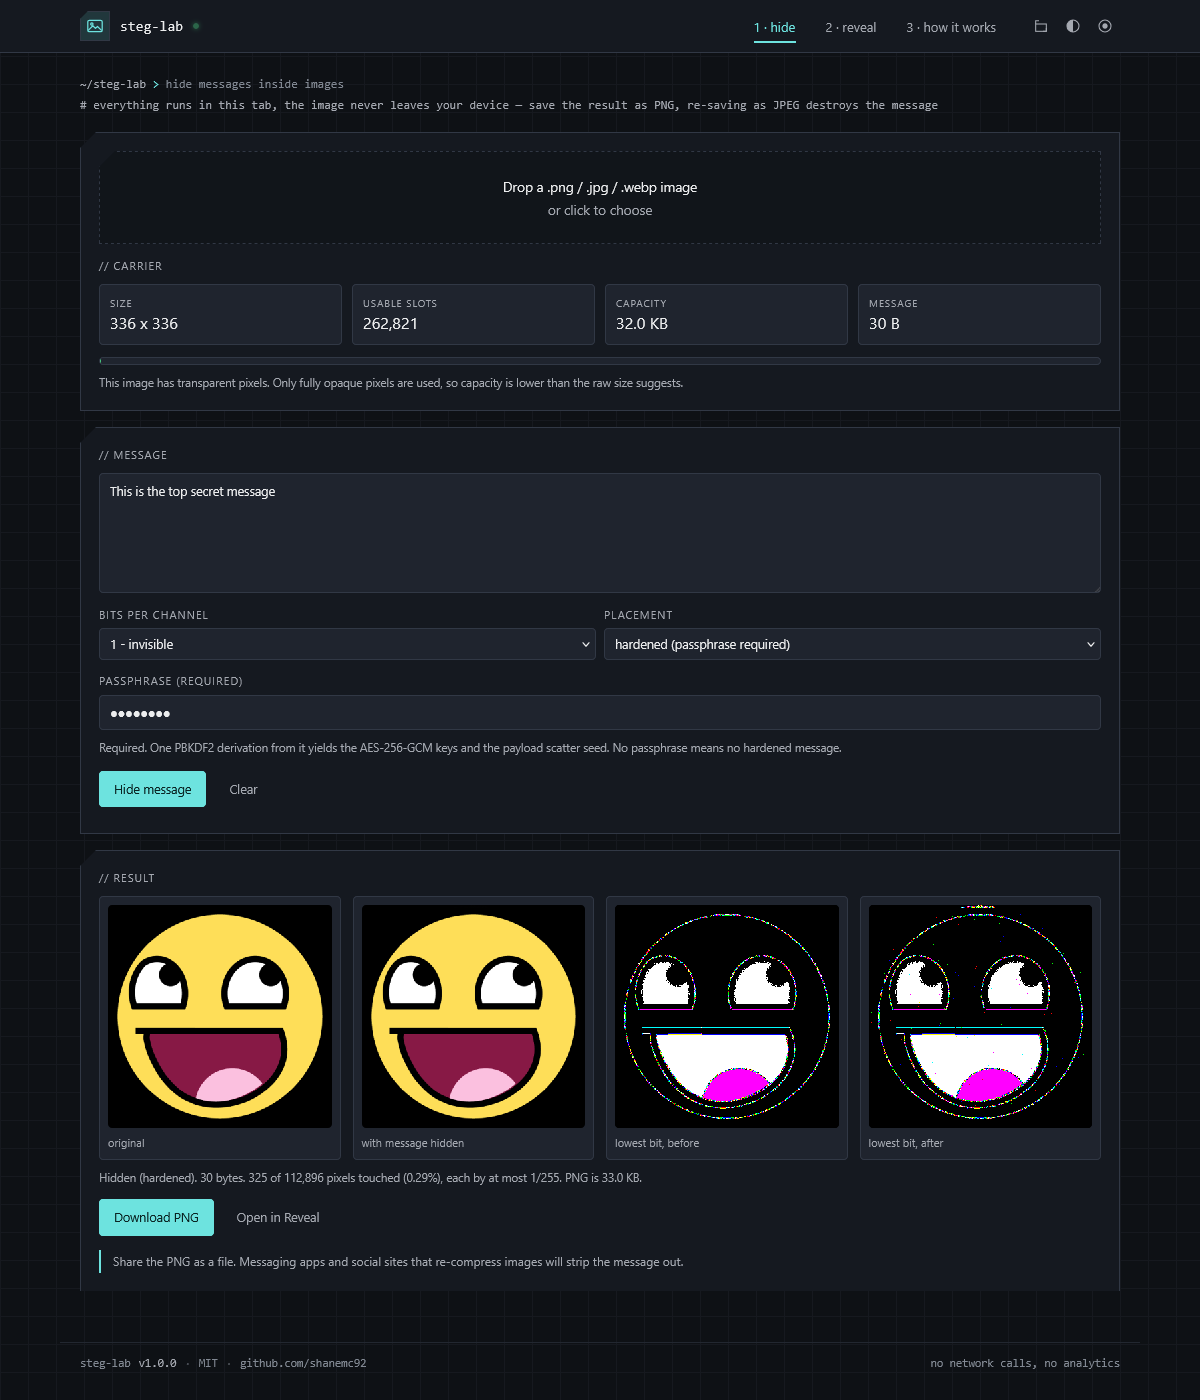
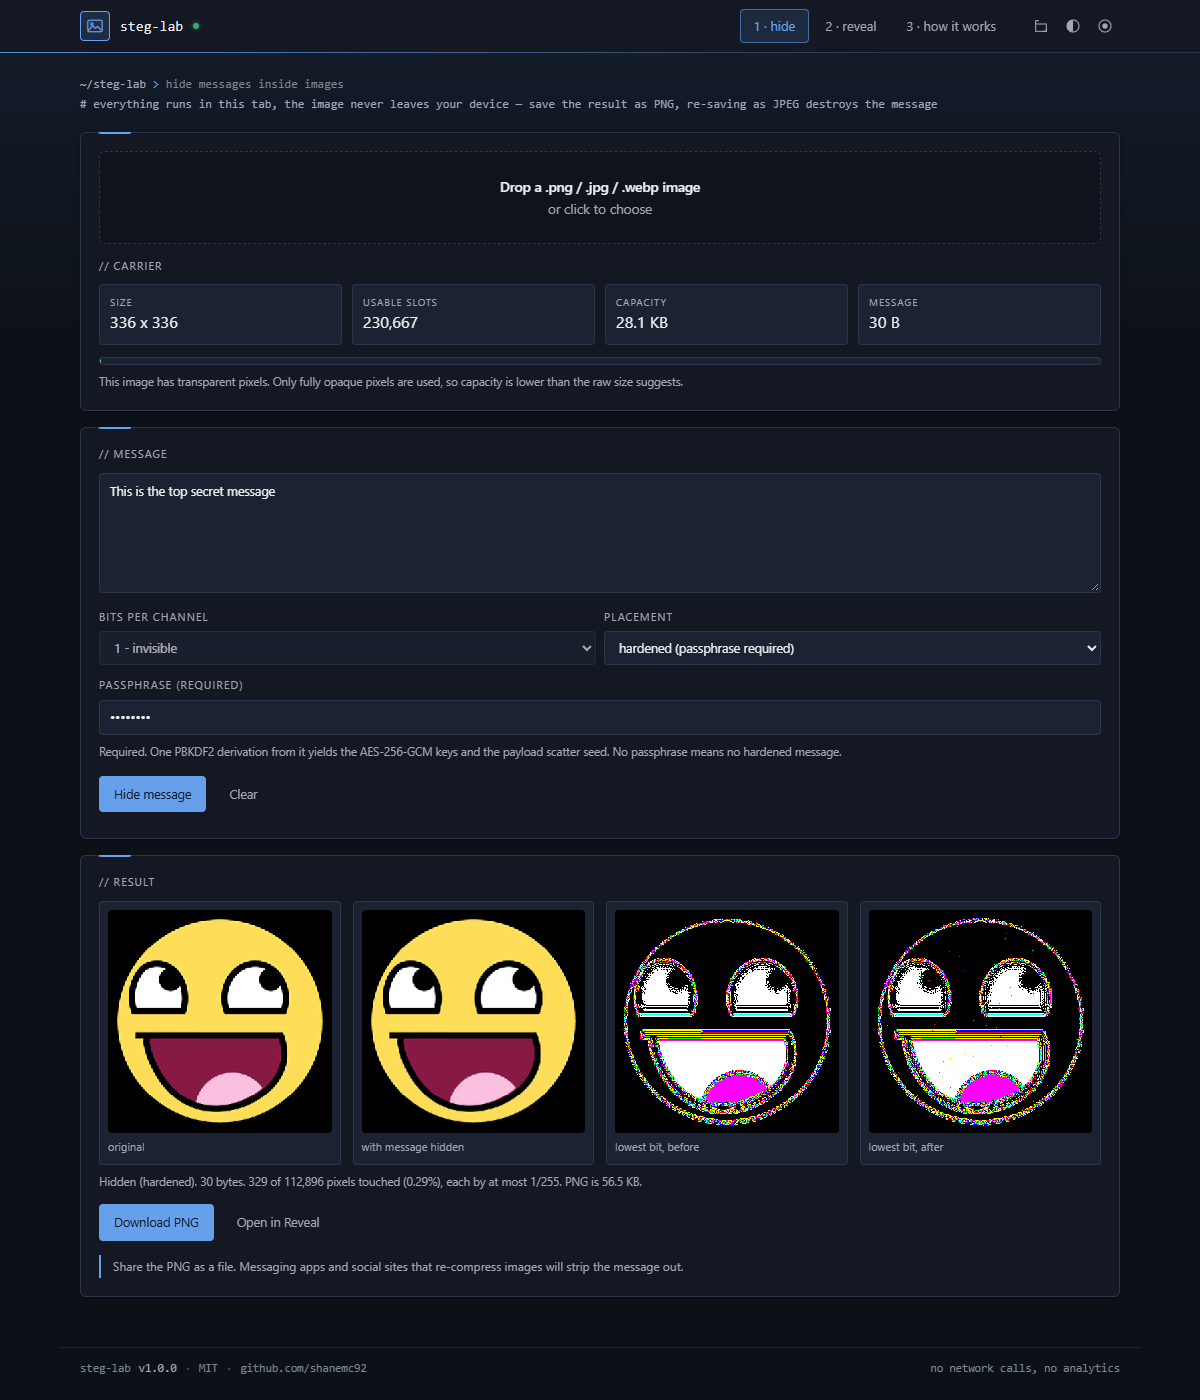
Replace the circuit design with cobalt and make it the default
Cobalt is a navy, blue-ruled design in place of the green circuit board
one. It is now the default and first in the design menu, with Azure as
the default accent. Screenshots retaken in the new default.

diff --git a/index.html b/index.html
@@ -1,5 +1,5 @@
 <!DOCTYPE html>
-<html lang="en" data-design="chamfer" data-mode="dark">
+<html lang="en" data-design="cobalt" data-mode="dark">
 <head>
 <meta charset="UTF-8">
 <meta name="viewport" content="width=device-width, initial-scale=1.0">
@@ -18,7 +18,7 @@
 
    One stylesheet, three independent axes:
 
-     data-design  chamfer | console | circuit | contour
+     data-design  cobalt | chamfer | console | contour
                   shape language, surface hue family, backdrop
                   texture, ornament. This is the "look".
 
@@ -58,15 +58,26 @@
     --ctl:      30px;   /* icon button / logo tile box */
 
     /* Accent defaults, overwritten inline by the picker. */
-    --ah: 178;
-    --ac: 68%;
+    --ah: 214;
+    --ac: 76%;
 }
 
 /* ============================================================
    Designs: hue family per mode group, shape, ornament switches
    ============================================================ */
 
-/* Cut corners, instrument grid. The house design. */
+/* Navy editor chrome, one constant blue rule. The house design. */
+html[data-design="cobalt"] {
+    --hd: 222; --sd: 30%;
+    --hw: 38;  --sw: 28%;
+    --hl: 216; --sl: 28%;
+    --radius: 6px;
+    --radius-sm: 4px;
+    --notch: 0px;
+    --notch-sm: 0px;
+}
+
+/* Cut corners, instrument grid. */
 html[data-design="chamfer"] {
     --hd: 218; --sd: 20%;    /* dark + dusk surfaces */
     --hw: 36;  --sw: 30%;    /* sepia surfaces */
@@ -84,17 +95,6 @@ html[data-design="console"] {
     --hl: 210; --sl: 7%;
     --radius: 0px;
     --radius-sm: 0px;
-    --notch: 0px;
-    --notch-sm: 0px;
-}
-
-/* Board colours, via grid, one constant plating. */
-html[data-design="circuit"] {
-    --hd: 152; --sd: 38%;
-    --hw: 40;  --sw: 34%;
-    --hl: 150; --sl: 8%;
-    --radius: 3px;
-    --radius-sm: 2px;
     --notch: 0px;
     --notch-sm: 0px;
 }
@@ -132,7 +132,7 @@ html[data-mode="dark"] {
     --warn: hsl(41 86% 60%);
     --bad:  hsl(5 85% 66%);
     --ok-ink: hsl(146 60% 8%);
-    --copper: #d3a24a;
+    --cobalt: hsl(214 90% 68%);
 }
 
 /* "Not as dark": same palette lifted off black, for rooms with
@@ -151,7 +151,7 @@ html[data-mode="dusk"] {
     --warn: hsl(41 82% 62%);
     --bad:  hsl(5 82% 68%);
     --ok-ink: hsl(146 60% 9%);
-    --copper: #dcae5c;
+    --cobalt: hsl(214 88% 74%);
 }
 
 /* Warm paper. Bright but low glare. */
@@ -169,7 +169,7 @@ html[data-mode="sepia"] {
     --warn: hsl(32 78% 34%);
     --bad:  hsl(2 68% 44%);
     --ok-ink: hsl(40 40% 97%);
-    --copper: #96681a;
+    --cobalt: hsl(216 62% 38%);
 }
 
 /* Cool white. The print-adjacent one. */
@@ -187,7 +187,7 @@ html[data-mode="light"] {
     --warn: hsl(32 80% 33%);
     --bad:  hsl(2 70% 45%);
     --ok-ink: hsl(150 30% 99%);
-    --copper: #8a6410;
+    --cobalt: hsl(216 72% 42%);
 }
 
 /* ============================================================
@@ -262,13 +262,11 @@ html[data-design="console"] body::before {
         var(--line-soft) 0 1px, transparent 1px 6px);
     opacity: 0.32;
 }
-/* Via holes: a plated ring around a hole the colour of the board. */
-html[data-design="circuit"] body::before {
-    background-image:
-        radial-gradient(circle, var(--line) 1.4px, transparent 1.6px),
-        radial-gradient(circle, var(--bg) 0.7px, transparent 0.9px);
-    background-size: 30px 30px, 30px 30px;
-    opacity: 0.55;
+/* A faint blue light falling from the top edge, like a lit screen. */
+html[data-design="cobalt"] body::before {
+    background-image: linear-gradient(180deg,
+        color-mix(in srgb, var(--cobalt) 9%, transparent), transparent 360px);
+    opacity: 1;
 }
 /* A single soft wash in the current accent, and nothing else. */
 html[data-design="contour"] body::before {
@@ -308,17 +306,15 @@ html[data-design="chamfer"] .chamfer-sm {
     background: var(--card);
     border-bottom: 1px solid var(--line);
 }
-/* Circuit only: the gold contact fingers of a card-edge connector,
-   kept to a hairline so it reads as an edge and not a stripe. */
-html[data-design="circuit"] .topbar::after {
+/* Cobalt only: a blue hairline under the bar that fades out to the
+   right, so it reads as an edge and not a stripe. */
+html[data-design="cobalt"] .topbar::after {
     content: "";
     position: absolute;
-    left: 0; right: 0; bottom: -2px;
-    height: 2px;
-    background: repeating-linear-gradient(90deg,
-        var(--copper) 0, var(--copper) 5px,
-        transparent 5px, transparent 8px);
-    opacity: 0.7;
+    left: 0; right: 0; bottom: -1px;
+    height: 1px;
+    background: linear-gradient(90deg, var(--cobalt), transparent 75%);
+    opacity: 0.8;
 }
 /* Console only: the bar sits on a second hairline, like a rule under
    a header in a terminal UI. Drawn as a shadow, so it takes no space. */
@@ -388,7 +384,7 @@ html[data-design="chamfer"] .logo {
     border-radius: 0;
     clip-path: polygon(8px 0, 100% 0, 100% 100%, 0 100%, 0 8px);
 }
-html[data-design="circuit"] .logo { border-color: var(--copper); }
+html[data-design="cobalt"] .logo { border-color: var(--cobalt); }
 html[data-design="contour"] .logo { border-radius: 50%; }
 @keyframes logo-in {
     from { opacity: 0; transform: scale(0.75); }
@@ -432,7 +428,14 @@ html[data-design="contour"] .tab[aria-selected="true"] { background: var(--accen
 html[data-design="console"] .tab::after,
 html[data-design="contour"] .tab::after { display: none; }
 html[data-design="contour"] .tab { border-radius: 999px; }
-html[data-design="circuit"] .tab[aria-selected="true"]::after { background: var(--copper); }
+/* Cobalt: the selected tab is a boxed chip, like a picker in a toolbar.
+   The border was already there, transparent, so nothing moves. */
+html[data-design="cobalt"] .tab[aria-selected="true"] {
+    color: var(--cobalt);
+    background: color-mix(in srgb, var(--cobalt) 12%, transparent);
+    border-color: color-mix(in srgb, var(--cobalt) 55%, transparent);
+}
+html[data-design="cobalt"] .tab::after { display: none; }
 
 /* ---------- Menus: design, mode, accent ---------- */
 .bar-tools { display: flex; align-items: center; gap: 2px; flex: 0 0 auto; }
@@ -510,11 +513,12 @@ html[data-design="circuit"] .tab[aria-selected="true"]::after { background: var(
 .opt[data-set="console"] .dsw {
     background-image: repeating-linear-gradient(180deg, var(--fg-faint) 0 1px, transparent 1px 4px);
 }
-.opt[data-set="circuit"] .dsw {
-    border-radius: 2px;
-    background-image: radial-gradient(circle, var(--fg-faint) 1.2px, transparent 1.4px);
-    background-size: 8px 8px;
-    background-position: 1px 1px;
+.opt[data-set="cobalt"] .dsw {
+    border-radius: 3px;
+    background-image: linear-gradient(90deg, var(--fg-faint) 0 60%, transparent 60%);
+    background-size: 100% 1px;
+    background-repeat: no-repeat;
+    background-position: 0 4px;
 }
 .opt[data-set="contour"] .dsw { border-radius: 50%; }
 
@@ -648,16 +652,15 @@ html[data-design="console"] .panel::before {
     background: var(--accent);
     opacity: 0.55;
 }
-/* Circuit: a fiducial in the corner, the way a board marks its own
-   orientation. Sits in the padding, never in the content. */
-html[data-design="circuit"] .panel::before {
+/* Cobalt: a short blue rule on the top edge, like the marker on an
+   active editor tab. Sits on the border, never in the content. */
+html[data-design="cobalt"] .panel::before {
     content: "";
     position: absolute;
-    top: 6px; right: 6px;
-    width: 7px; height: 7px;
-    border: 1.5px solid var(--copper);
-    border-radius: 50%;
-    opacity: 0.65;
+    top: -1px; left: var(--pad);
+    width: 32px; height: 2px;
+    background: var(--cobalt);
+    border-radius: 0 0 2px 2px;
 }
 @media print { .panel { clip-path: none !important; } .panel::before { display: none; } }
 
@@ -946,7 +949,7 @@ td .field { padding: 5px 8px; }
         --line: #999999; --line-soft: #cccccc;
         --fg: #111111; --fg-dim: #555555; --fg-faint: #777777;
         --accent: #333333; --accent-soft: transparent; --accent-ink: #ffffff;
-        --copper: #555555;
+        --cobalt: #555555;
         --shadow: none; --shadow-lift: none;
     }
     body::before { display: none !important; }
@@ -1206,6 +1209,11 @@ table.bits th { text-transform: none; letter-spacing: 0; font-weight: 400; font-
                 </button>
                 <div class="menu" id="designMenu" role="menu" hidden>
                     <div class="menu-title">Design</div>
+                    <button class="opt" role="menuitemradio" aria-checked="false" data-set="cobalt">
+                        <span class="dsw" aria-hidden="true"></span>
+                        <span class="lbl">Cobalt<small>navy chrome, blue rule, soft corners</small></span>
+                        <span class="tick" aria-hidden="true">&check;</span>
+                    </button>
                     <button class="opt" role="menuitemradio" aria-checked="false" data-set="chamfer">
                         <span class="dsw" aria-hidden="true"></span>
                         <span class="lbl">Chamfer<small>cut corners, instrument grid</small></span>
@@ -1214,11 +1222,6 @@ table.bits th { text-transform: none; letter-spacing: 0; font-weight: 400; font-
                     <button class="opt" role="menuitemradio" aria-checked="false" data-set="console">
                         <span class="dsw" aria-hidden="true"></span>
                         <span class="lbl">Console<small>square, graphite, scan rules</small></span>
-                        <span class="tick" aria-hidden="true">&check;</span>
-                    </button>
-                    <button class="opt" role="menuitemradio" aria-checked="false" data-set="circuit">
-                        <span class="dsw" aria-hidden="true"></span>
-                        <span class="lbl">Circuit<small>board colours, via grid, copper</small></span>
                         <span class="tick" aria-hidden="true">&check;</span>
                     </button>
                     <button class="opt" role="menuitemradio" aria-checked="false" data-set="contour">
@@ -1278,11 +1281,11 @@ table.bits th { text-transform: none; letter-spacing: 0; font-weight: 400; font-
                     <div class="wheel-wrap">
                         <div class="wheel" id="wheel" tabindex="0" role="slider"
                              aria-label="Accent colour wheel. Left and right change hue, up and down change intensity."
-                             aria-valuemin="0" aria-valuemax="359" aria-valuenow="178" aria-valuetext="Teal">
+                             aria-valuemin="0" aria-valuemax="359" aria-valuenow="214" aria-valuetext="Azure">
                             <span class="wheel-dot" id="wheelDot" aria-hidden="true"></span>
                         </div>
                         <div class="accent-foot">
-                            <span>Accent: <span class="now" id="accentNow">Teal</span></span>
+                            <span>Accent: <span class="now" id="accentNow">Azure</span></span>
                             <label class="hexin" title="Match a brand colour exactly. The lightness is still set per mode.">#<input
                                 type="text" class="fieldgroup" id="accentHex" maxlength="7" placeholder="2ec4b6"
                                 spellcheck="false" autocomplete="off" aria-label="Accent colour as hex"></label>
@@ -1548,7 +1551,7 @@ function SAY(m) {
        ============================================================ */
     const root = document.documentElement;
 
-    const DESIGNS = ["chamfer", "console", "circuit", "contour"];
+    const DESIGNS = ["cobalt", "chamfer", "console", "contour"];
     const MODES   = ["dark", "dusk", "sepia", "light"];
 
     /* Hue plus chroma. Kept clear of the green, amber and red that --ok,
@@ -1564,7 +1567,10 @@ function SAY(m) {
         { id: "slate",  name: "Slate",  h: 210, c: 18 }
     ];
 
-    let accent = { h: 178, c: 68, name: "Teal" };
+    /* Azure suits the default cobalt design. */
+const DEFAULT_ACCENT = ACCENTS.find(a => a.id === "azure");
+
+let accent = { h: DEFAULT_ACCENT.h, c: DEFAULT_ACCENT.c, name: DEFAULT_ACCENT.name };
 
     /* ---------- keeping an arbitrary hue readable ----------
        HSL lightness is not perceptual: hsl(178 68% 40%) and
@@ -1836,7 +1842,7 @@ function SAY(m) {
     (() => {
         let a = null;
         try { a = JSON.parse(ST.get("accent")); } catch (e) {}
-        applyAccent(a && isFinite(a.h) ? a : ACCENTS[0], false);
+        applyAccent(a && isFinite(a.h) ? a : DEFAULT_ACCENT, false);
     })();
 })();
 /* ---------- tabs ---------- */

diff --git a/README.md b/README.md
@@ -94,9 +94,9 @@ one never resets the others.
 
 | Design | Shape | Backdrop |
 |---|---|---|
-| `chamfer` | Cut corners | Instrument grid. The default |
+| `cobalt` | Slight radius, navy | Blue glow from the top, blue edge rules. The default |
+| `chamfer` | Cut corners | Instrument grid |
 | `console` | Square, graphite | Horizontal scan rules |
-| `circuit` | Slight radius, board green | Via holes, copper edge |
 | `contour` | Soft radii, violet | A single accent wash |
 
 **Mode** sets the lightness ramp only, and every design supports every mode:
